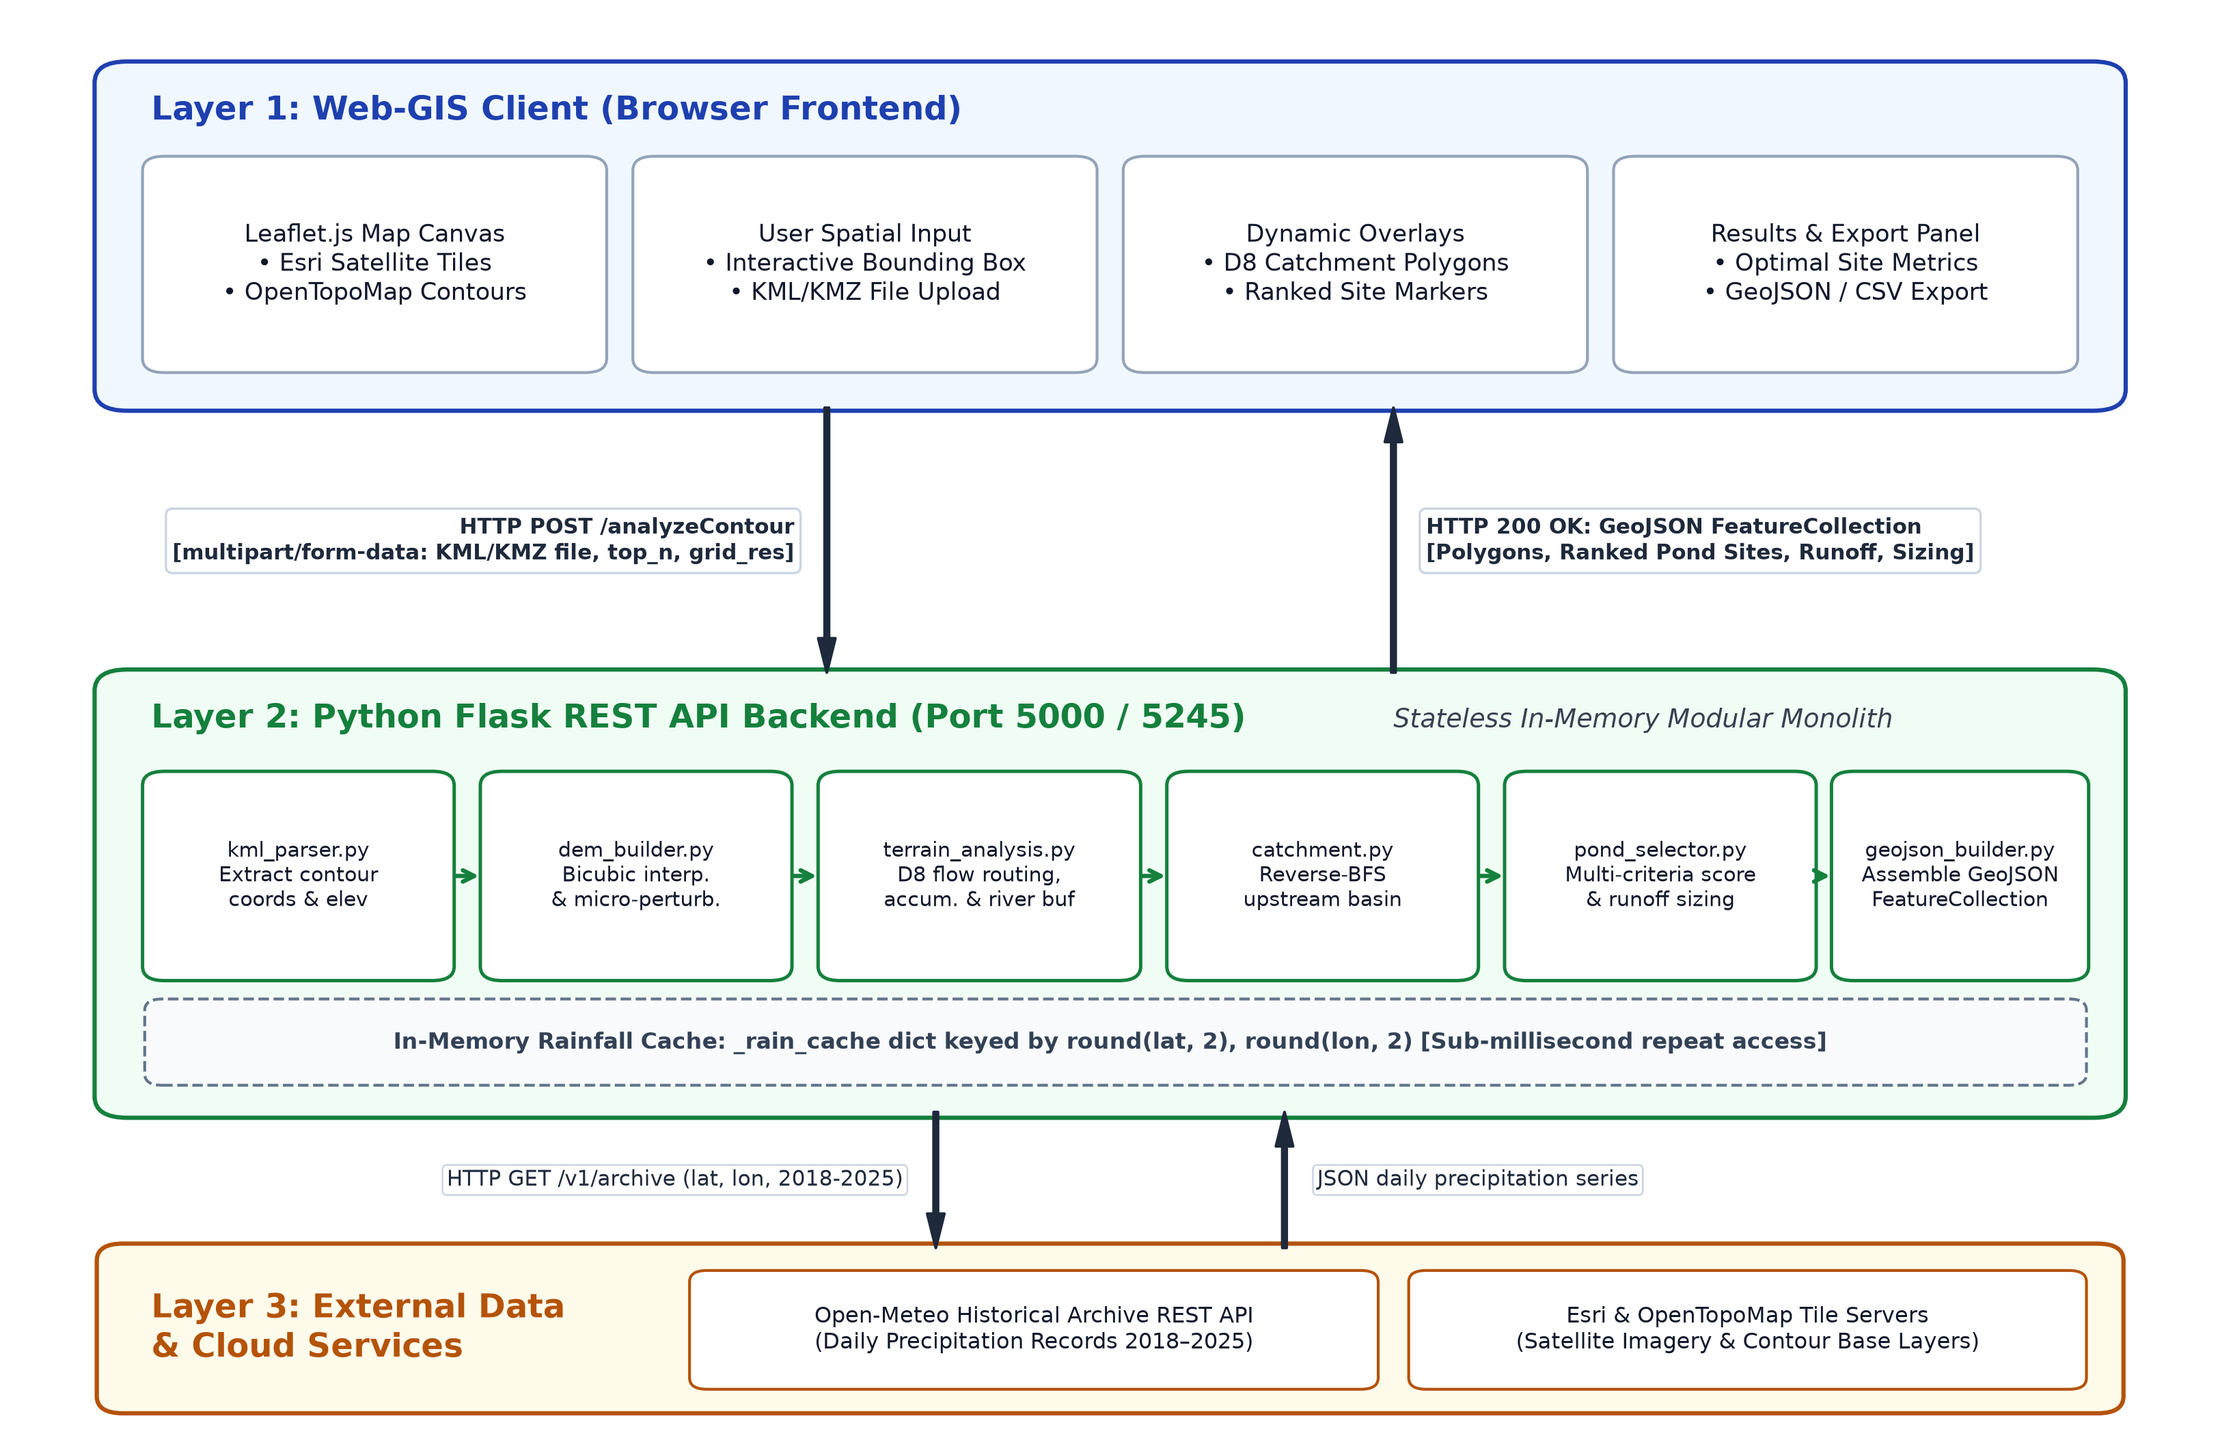
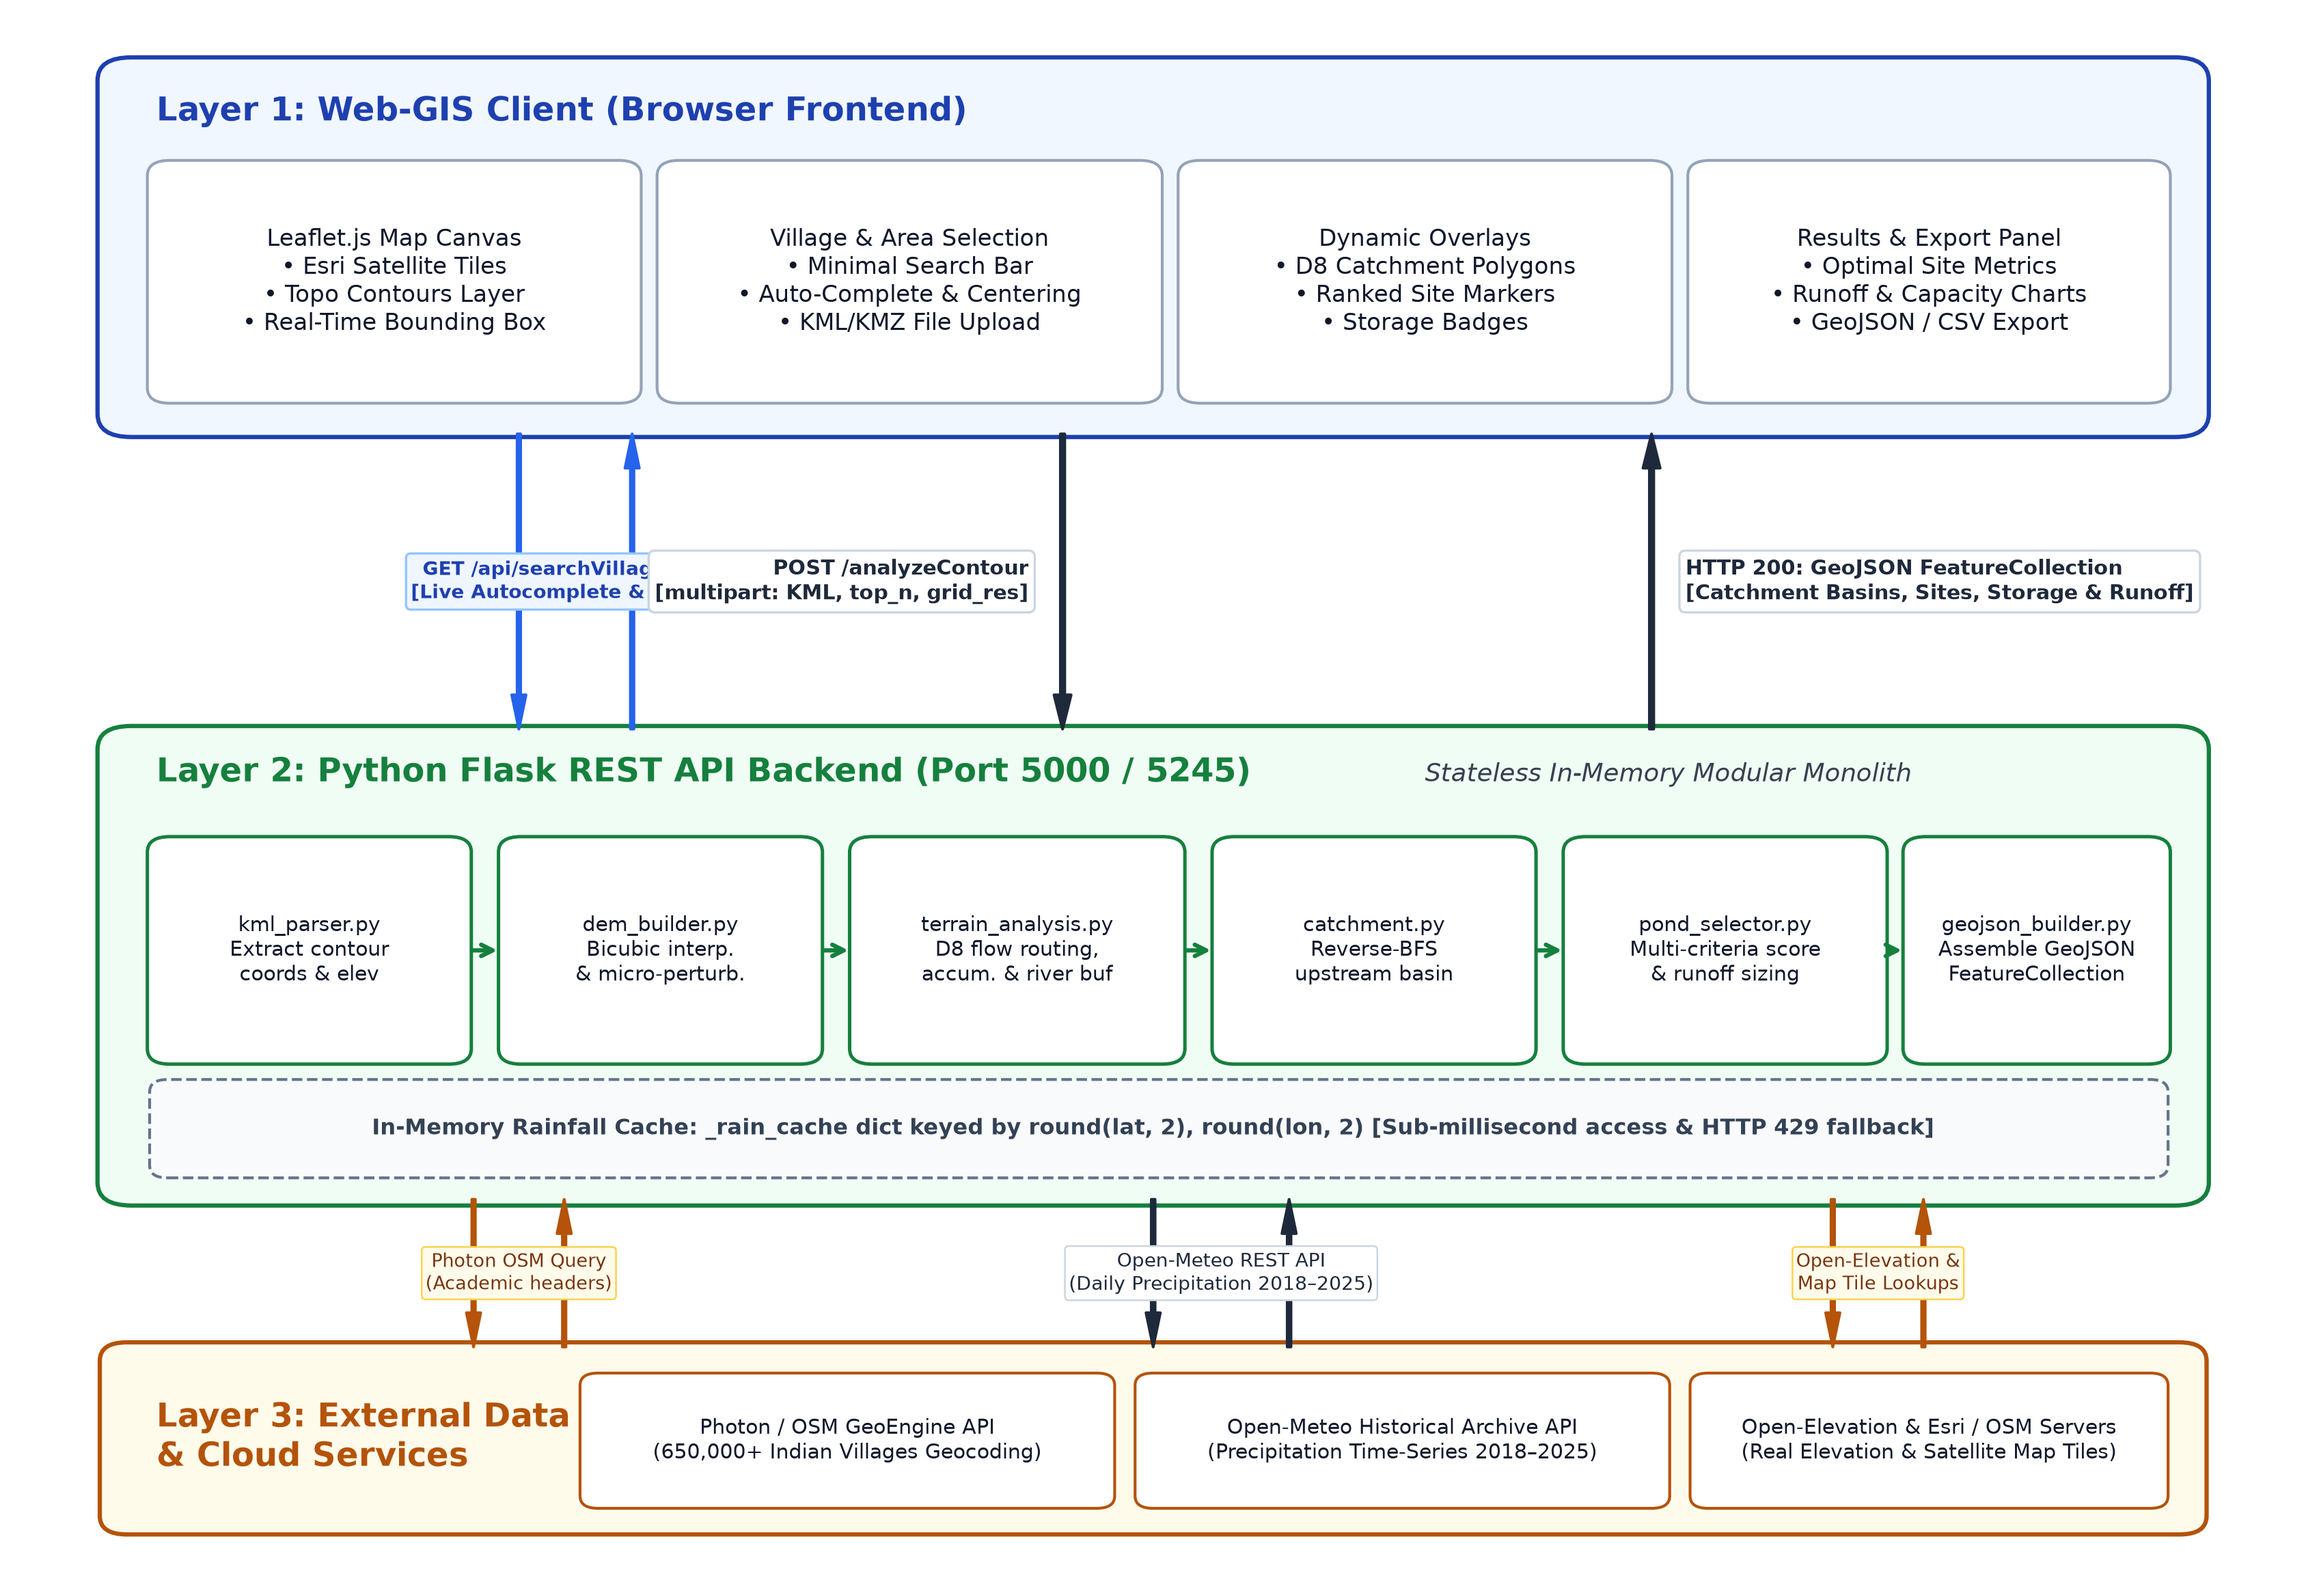
Update architecture diagram with live village search API and external cloud services

diff --git a/generate_architecture_diagram.py b/generate_architecture_diagram.py
@@ -2,7 +2,7 @@ import matplotlib.pyplot as plt
 import matplotlib.patches as patches
 
 def draw_architecture():
-    fig, ax = plt.subplots(figsize=(11, 7.2), dpi=300)
+    fig, ax = plt.subplots(figsize=(11.5, 7.8), dpi=300)
     ax.set_xlim(0, 100)
     ax.set_ylim(0, 100)
     ax.axis('off')
@@ -20,22 +20,22 @@ def draw_architecture():
 
     # Font sizes
     fs_title = 11.5
-    fs_box = 8.5
-    fs_flow = 7.5
-    fs_sub = 7.5
+    fs_box = 8.2
+    fs_flow = 7.2
+    fs_sub = 7.0
 
     # ================= LAYER 1: CLIENT =================
-    rect_l1 = patches.FancyBboxPatch((4, 73), 92, 23.5, boxstyle="round,pad=0.6,rounding_size=1.5",
+    rect_l1 = patches.FancyBboxPatch((4, 73.5), 92, 23.5, boxstyle="round,pad=0.6,rounding_size=1.5",
                                      edgecolor=c_l1_border, facecolor=c_l1_bg, linewidth=1.5)
     ax.add_patch(rect_l1)
-    ax.text(6, 93, "Layer 1: Web-GIS Client (Browser Frontend)", fontsize=fs_title, fontweight='bold', color=c_l1_border)
+    ax.text(6, 93.5, "Layer 1: Web-GIS Client (Browser Frontend)", fontsize=fs_title, fontweight='bold', color=c_l1_border)
 
     # Sub-modules inside Layer 1
     l1_items = [
-        ("Leaflet.js Map Canvas\n• Esri Satellite Tiles\n• OpenTopoMap Contours", 6, 75.5, 20.5, 14.5),
-        ("User Spatial Input\n• Interactive Bounding Box\n• KML/KMZ File Upload", 28.5, 75.5, 20.5, 14.5),
-        ("Dynamic Overlays\n• D8 Catchment Polygons\n• Ranked Site Markers", 51, 75.5, 20.5, 14.5),
-        ("Results & Export Panel\n• Optimal Site Metrics\n• GeoJSON / CSV Export", 73.5, 75.5, 20.5, 14.5)
+        ("Leaflet.js Map Canvas\n• Esri Satellite Tiles\n• Topo Contours Layer\n• Real-Time Bounding Box", 6, 75.5, 21, 15),
+        ("Village & Area Selection\n• Minimal Search Bar\n• Auto-Complete & Centering\n• KML/KMZ File Upload", 28.5, 75.5, 21.5, 15),
+        ("Dynamic Overlays\n• D8 Catchment Polygons\n• Ranked Site Markers\n• Storage Badges", 51.5, 75.5, 21, 15),
+        ("Results & Export Panel\n• Optimal Site Metrics\n• Runoff & Capacity Charts\n• GeoJSON / CSV Export", 74, 75.5, 20.5, 15)
     ]
     for title, x, y, w, h in l1_items:
         r = patches.FancyBboxPatch((x, y), w, h, boxstyle="round,pad=0.4,rounding_size=1",
@@ -44,26 +44,35 @@ def draw_architecture():
         ax.text(x + w/2, y + h/2, title, fontsize=fs_box, ha='center', va='center', color="#0F172A")
 
     # ================= ARROWS: LAYER 1 <-> LAYER 2 =================
-    # Request arrow (down)
-    ax.annotate('', xy=(37, 53.5), xytext=(37, 73),
+    # Village Search Request/Response (left arrow pair)
+    ax.annotate('', xy=(22, 53.5), xytext=(22, 73.5),
+                arrowprops=dict(facecolor="#2563EB", edgecolor="#2563EB", width=1.2, headwidth=5, shrink=0.02))
+    ax.annotate('', xy=(27, 73.5), xytext=(27, 53.5),
+                arrowprops=dict(facecolor="#2563EB", edgecolor="#2563EB", width=1.2, headwidth=5, shrink=0.02))
+    ax.text(24.5, 63.5, "GET /api/searchVillage?q=...\n[Live Autocomplete & Bounds]",
+            fontsize=6.8, ha='center', va='center', fontweight='bold', color="#1E40AF",
+            bbox=dict(boxstyle="round,pad=0.25", facecolor="#EFF6FF", edgecolor="#93C5FD", linewidth=0.8))
+
+    # Hydrological Analysis Request (center arrow down)
+    ax.annotate('', xy=(46, 53.5), xytext=(46, 73.5),
                 arrowprops=dict(facecolor=c_arrow, edgecolor=c_arrow, width=1.5, headwidth=6, shrink=0.02))
-    ax.text(35.5, 63.2, "HTTP POST /analyzeContour\n[multipart/form-data: KML/KMZ file, top_n, grid_res]",
+    ax.text(44.5, 63.5, "POST /analyzeContour\n[multipart: KML, top_n, grid_res]",
             fontsize=fs_flow, ha='right', va='center', fontweight='bold', color="#1E293B",
             bbox=dict(boxstyle="round,pad=0.3", facecolor="#FFFFFF", edgecolor="#CBD5E1", linewidth=0.8))
 
-    # Response arrow (up)
-    ax.annotate('', xy=(63, 73), xytext=(63, 53.5),
+    # Response arrow (right arrow up)
+    ax.annotate('', xy=(72, 73.5), xytext=(72, 53.5),
                 arrowprops=dict(facecolor=c_arrow, edgecolor=c_arrow, width=1.5, headwidth=6, shrink=0.02))
-    ax.text(64.5, 63.2, "HTTP 200 OK: GeoJSON FeatureCollection\n[Polygons, Ranked Pond Sites, Runoff, Sizing]",
+    ax.text(73.5, 63.5, "HTTP 200: GeoJSON FeatureCollection\n[Catchment Basins, Sites, Storage & Runoff]",
             fontsize=fs_flow, ha='left', va='center', fontweight='bold', color="#1E293B",
             bbox=dict(boxstyle="round,pad=0.3", facecolor="#FFFFFF", edgecolor="#CBD5E1", linewidth=0.8))
 
     # ================= LAYER 2: BACKEND =================
-    rect_l2 = patches.FancyBboxPatch((4, 23), 92, 30.5, boxstyle="round,pad=0.6,rounding_size=1.5",
+    rect_l2 = patches.FancyBboxPatch((4, 23.5), 92, 30, boxstyle="round,pad=0.6,rounding_size=1.5",
                                      edgecolor=c_l2_border, facecolor=c_l2_bg, linewidth=1.5)
     ax.add_patch(rect_l2)
-    ax.text(6, 50, "Layer 2: Python Flask REST API Backend (Port 5000 / 5245)", fontsize=fs_title, fontweight='bold', color=c_l2_border)
-    ax.text(63, 50, "Stateless In-Memory Modular Monolith", fontsize=9, fontstyle='italic', color="#374151")
+    ax.text(6, 50.5, "Layer 2: Python Flask REST API Backend (Port 5000 / 5245)", fontsize=fs_title, fontweight='bold', color=c_l2_border)
+    ax.text(62, 50.5, "Stateless In-Memory Modular Monolith", fontsize=8.8, fontstyle='italic', color="#374151")
 
     # Pipeline stages
     pipeline = [
@@ -87,42 +96,58 @@ def draw_architecture():
                         arrowprops=dict(arrowstyle="->", color="#15803D", lw=1.5))
 
     # Caching Component inside Layer 2
-    r_cache = patches.FancyBboxPatch((6, 25), 88.5, 5.5, boxstyle="round,pad=0.3,rounding_size=0.8",
+    r_cache = patches.FancyBboxPatch((6, 25), 88.5, 5.8, boxstyle="round,pad=0.3,rounding_size=0.8",
                                      edgecolor="#64748B", facecolor="#F8FAFC", linewidth=1, linestyle="--")
     ax.add_patch(r_cache)
-    ax.text(50, 27.7, "In-Memory Rainfall Cache: _rain_cache dict keyed by round(lat, 2), round(lon, 2) [Sub-millisecond repeat access]",
-            fontsize=8, ha='center', va='center', fontweight='bold', color="#334155")
+    ax.text(50, 27.9, "In-Memory Rainfall Cache: _rain_cache dict keyed by round(lat, 2), round(lon, 2) [Sub-millisecond access & HTTP 429 fallback]",
+            fontsize=7.8, ha='center', va='center', fontweight='bold', color="#334155")
 
     # ================= ARROWS: LAYER 2 <-> LAYER 3 =================
-    ax.annotate('', xy=(42, 13), xytext=(42, 23),
-                arrowprops=dict(facecolor=c_arrow, edgecolor=c_arrow, width=1.5, headwidth=6, shrink=0.02))
-    ax.text(40.5, 18, "HTTP GET /v1/archive (lat, lon, 2018-2025)", fontsize=fs_sub, ha='right', va='center', color="#1E293B",
+    # Left arrow: Village search proxy to Photon
+    ax.annotate('', xy=(20, 13.5), xytext=(20, 23.5),
+                arrowprops=dict(facecolor="#B45309", edgecolor="#B45309", width=1.2, headwidth=5, shrink=0.02))
+    ax.annotate('', xy=(24, 23.5), xytext=(24, 13.5),
+                arrowprops=dict(facecolor="#B45309", edgecolor="#B45309", width=1.2, headwidth=5, shrink=0.02))
+    ax.text(22, 18.5, "Photon OSM Query\n(Academic headers)", fontsize=6.5, ha='center', va='center', color="#78350F",
+            bbox=dict(boxstyle="round,pad=0.2", facecolor="#FFFBEB", edgecolor="#FCD34D", linewidth=0.6))
+
+    # Center arrow: Open-Meteo Rainfall query
+    ax.annotate('', xy=(50, 13.5), xytext=(50, 23.5),
+                arrowprops=dict(facecolor=c_arrow, edgecolor=c_arrow, width=1.3, headwidth=5, shrink=0.02))
+    ax.annotate('', xy=(56, 23.5), xytext=(56, 13.5),
+                arrowprops=dict(facecolor=c_arrow, edgecolor=c_arrow, width=1.3, headwidth=5, shrink=0.02))
+    ax.text(53, 18.5, "Open-Meteo REST API\n(Daily Precipitation 2018–2025)", fontsize=6.8, ha='center', va='center', color="#1E293B",
             bbox=dict(boxstyle="round,pad=0.2", facecolor="#FFFFFF", edgecolor="#CBD5E1", linewidth=0.6))
 
-    ax.annotate('', xy=(58, 23), xytext=(58, 13),
-                arrowprops=dict(facecolor=c_arrow, edgecolor=c_arrow, width=1.5, headwidth=6, shrink=0.02))
-    ax.text(59.5, 18, "JSON daily precipitation series", fontsize=fs_sub, ha='left', va='center', color="#1E293B",
-            bbox=dict(boxstyle="round,pad=0.2", facecolor="#FFFFFF", edgecolor="#CBD5E1", linewidth=0.6))
+    # Right arrow: Open-Elevation API & Tiles
+    ax.annotate('', xy=(80, 13.5), xytext=(80, 23.5),
+                arrowprops=dict(facecolor="#B45309", edgecolor="#B45309", width=1.2, headwidth=5, shrink=0.02))
+    ax.annotate('', xy=(84, 23.5), xytext=(84, 13.5),
+                arrowprops=dict(facecolor="#B45309", edgecolor="#B45309", width=1.2, headwidth=5, shrink=0.02))
+    ax.text(82, 18.5, "Open-Elevation &\nMap Tile Lookups", fontsize=6.5, ha='center', va='center', color="#78350F",
+            bbox=dict(boxstyle="round,pad=0.2", facecolor="#FFFBEB", edgecolor="#FCD34D", linewidth=0.6))
 
     # ================= LAYER 3: EXTERNAL SERVICES =================
-    rect_l3 = patches.FancyBboxPatch((4, 2), 92, 11, boxstyle="round,pad=0.5,rounding_size=1.2",
+    rect_l3 = patches.FancyBboxPatch((4, 2), 92, 11.5, boxstyle="round,pad=0.5,rounding_size=1.2",
                                      edgecolor=c_l3_border, facecolor=c_l3_bg, linewidth=1.5)
     ax.add_patch(rect_l3)
-    ax.text(6, 7.5, "Layer 3: External Data\n& Cloud Services", fontsize=fs_title, fontweight='bold', color=c_l3_border, va='center')
+    ax.text(6, 7.8, "Layer 3: External Data\n& Cloud Services", fontsize=fs_title, fontweight='bold', color=c_l3_border, va='center')
 
     ext_items = [
-        ("Open-Meteo Historical Archive REST API\n(Daily Precipitation Records 2018–2025)", 31, 3.5, 31, 7.8),
-        ("Esri & OpenTopoMap Tile Servers\n(Satellite Imagery & Contour Base Layers)", 64, 3.5, 30.5, 7.8)
+        ("Photon / OSM GeoEngine API\n(650,000+ Indian Villages Geocoding)", 25, 3.5, 23, 8.2),
+        ("Open-Meteo Historical Archive API\n(Precipitation Time-Series 2018–2025)", 49.5, 3.5, 23, 8.2),
+        ("Open-Elevation & Esri / OSM Servers\n(Real Elevation & Satellite Map Tiles)", 74, 3.5, 20.5, 8.2)
     ]
     for title, x, y, w, h in ext_items:
         r = patches.FancyBboxPatch((x, y), w, h, boxstyle="round,pad=0.3,rounding_size=0.8",
                                    edgecolor=c_l3_border, facecolor=c_mod_bg, linewidth=1)
         ax.add_patch(r)
-        ax.text(x + w/2, y + h/2, title, fontsize=7.6, ha='center', va='center', color="#0F172A")
+        ax.text(x + w/2, y + h/2, title, fontsize=7.2, ha='center', va='center', color="#0F172A")
 
     plt.tight_layout()
     plt.savefig("/Users/harshita/Desktop/venv/csd_pond/fig_architecture.png", dpi=300, bbox_inches='tight')
-    print("Clean architecture diagram saved!")
+    print("Enhanced architecture diagram saved successfully!")
 
 if __name__ == "__main__":
     draw_architecture()
+
